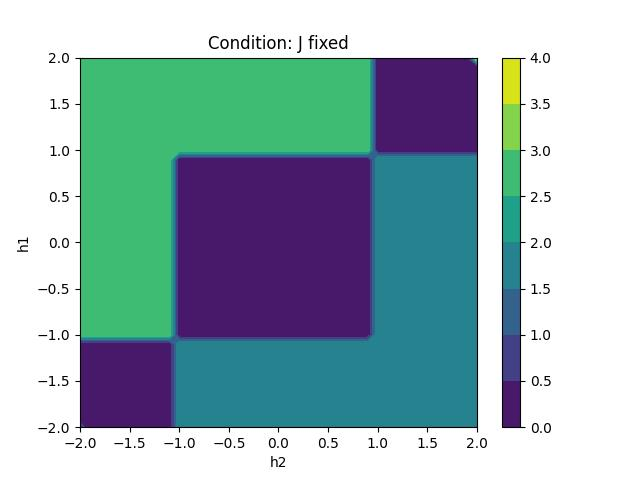
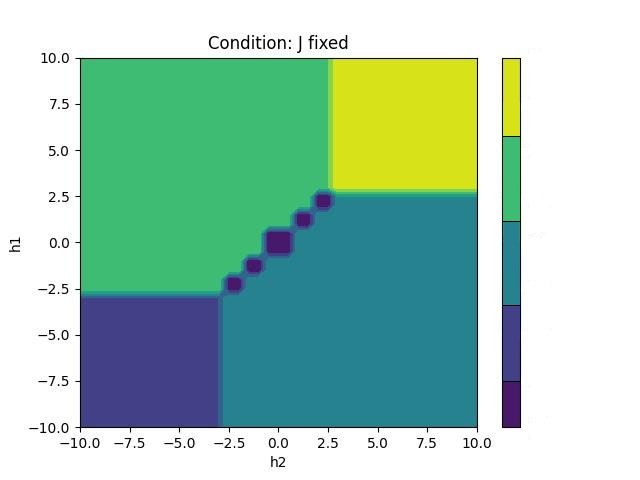
Non degenerate spectrum for 2 qubits

diff --git a/two_plot_hJ.py b/two_plot_hJ.py
@@ -43,7 +43,7 @@ s = np.array(data['s'])
 h0 = (s1_I + I_s1)
 
 def hf(h, J):
-    return (biases(h) * (s3_I + I_s3)) + (coupling_strengths(J) * s3_s3)
+    return (biases(h) * (s3_I + 2*I_s3)) + (coupling_strengths(J) * s3_s3)
 
 def H(t, h, J):
     return - A.item(t) / 2 * h0 + B.item(t) / 2 * hf(h, J)
@@ -78,13 +78,13 @@ def ground_state(h, J):
 
 z = []
 
-for h in np.arange(-2, 2.1, 0.1):
+for h in np.arange(-10, 10.5, 0.5):
     z.append([])
-    for J in np.arange(-1, 1.1, 0.1):
+    for J in np.arange(-10, 10.5, 0.5):
          z[-1].append(ground_state(h,J))
 
-xlist = np.linspace(-1, 1, 21)
-ylist = np.linspace(-2, 2, 41)
+xlist = np.linspace(-10, 10, 41)
+ylist = np.linspace(-10, 10, 41)
 X, Y = np.meshgrid(xlist, ylist)
  
 fig, ax = plt.subplots(1,1)
@@ -95,7 +95,7 @@ fig.colorbar(cp) # Add a colorbar to a plot
 ax.set_title('Condition: h1 = h2 = h')
 
 ax.set_xlabel('J')
-ax.set_ylabel('h')
+ax.set_ylabel('h1')
 
 plt.savefig('two_plot_hJ.pdf')
 plt.savefig('two_plot_hJ.jpg')

diff --git a/two_plot_h1h2.py b/two_plot_h1h2.py
@@ -60,7 +60,7 @@ def ground_state(h1, h2):
     for i in range(0, 4):
         EigVectors[:,0][i] = round_half_up(EigVectors[:,0][i], 1)
         
-    pippo = round_half_up(np.linalg.norm(zeta * EigVectors[:,0]))
+    pippo = round_half_up(np.linalg.norm(zeta * EigVectors[:,0]), 1)
     
     print(h1, h2, EigVectors[:,0], pippo)
     if pippo == 1.0:
@@ -76,13 +76,13 @@ def ground_state(h1, h2):
 
 z = []
 
-for h1 in np.arange(-2, 2.1, 0.1):
+for h1 in np.arange(-10, 10.5, 0.5):
     z.append([])
-    for h2 in np.arange(-2, 2.1, 0.1):
+    for h2 in np.arange(-10, 10.5, 0.5):
          z[-1].append(ground_state(h1,h2))
 
-xlist = np.linspace(-2, 2, 41)
-ylist = np.linspace(-2, 2, 41)
+xlist = np.linspace(-10, 10, 41)
+ylist = np.linspace(-10, 10, 41)
 X, Y = np.meshgrid(xlist, ylist)
 
 fig, ax = plt.subplots(1,1)
